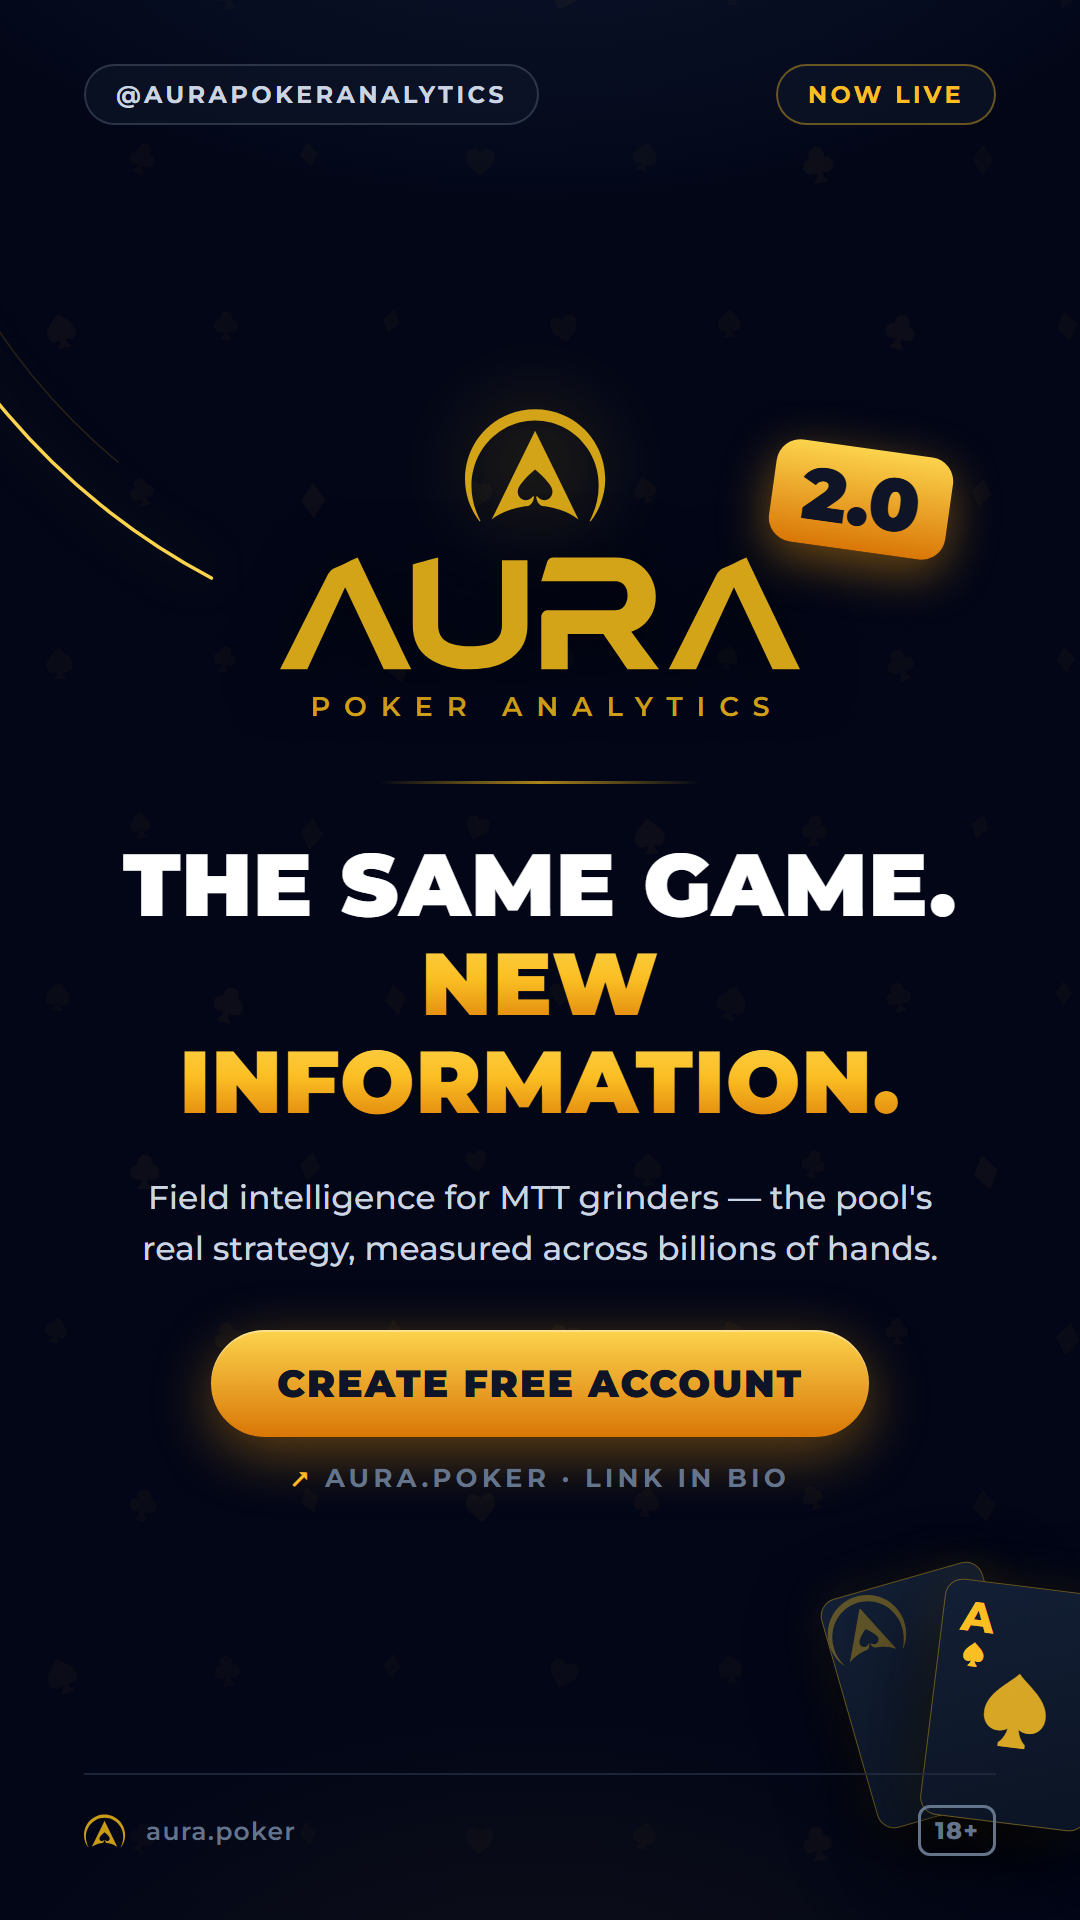
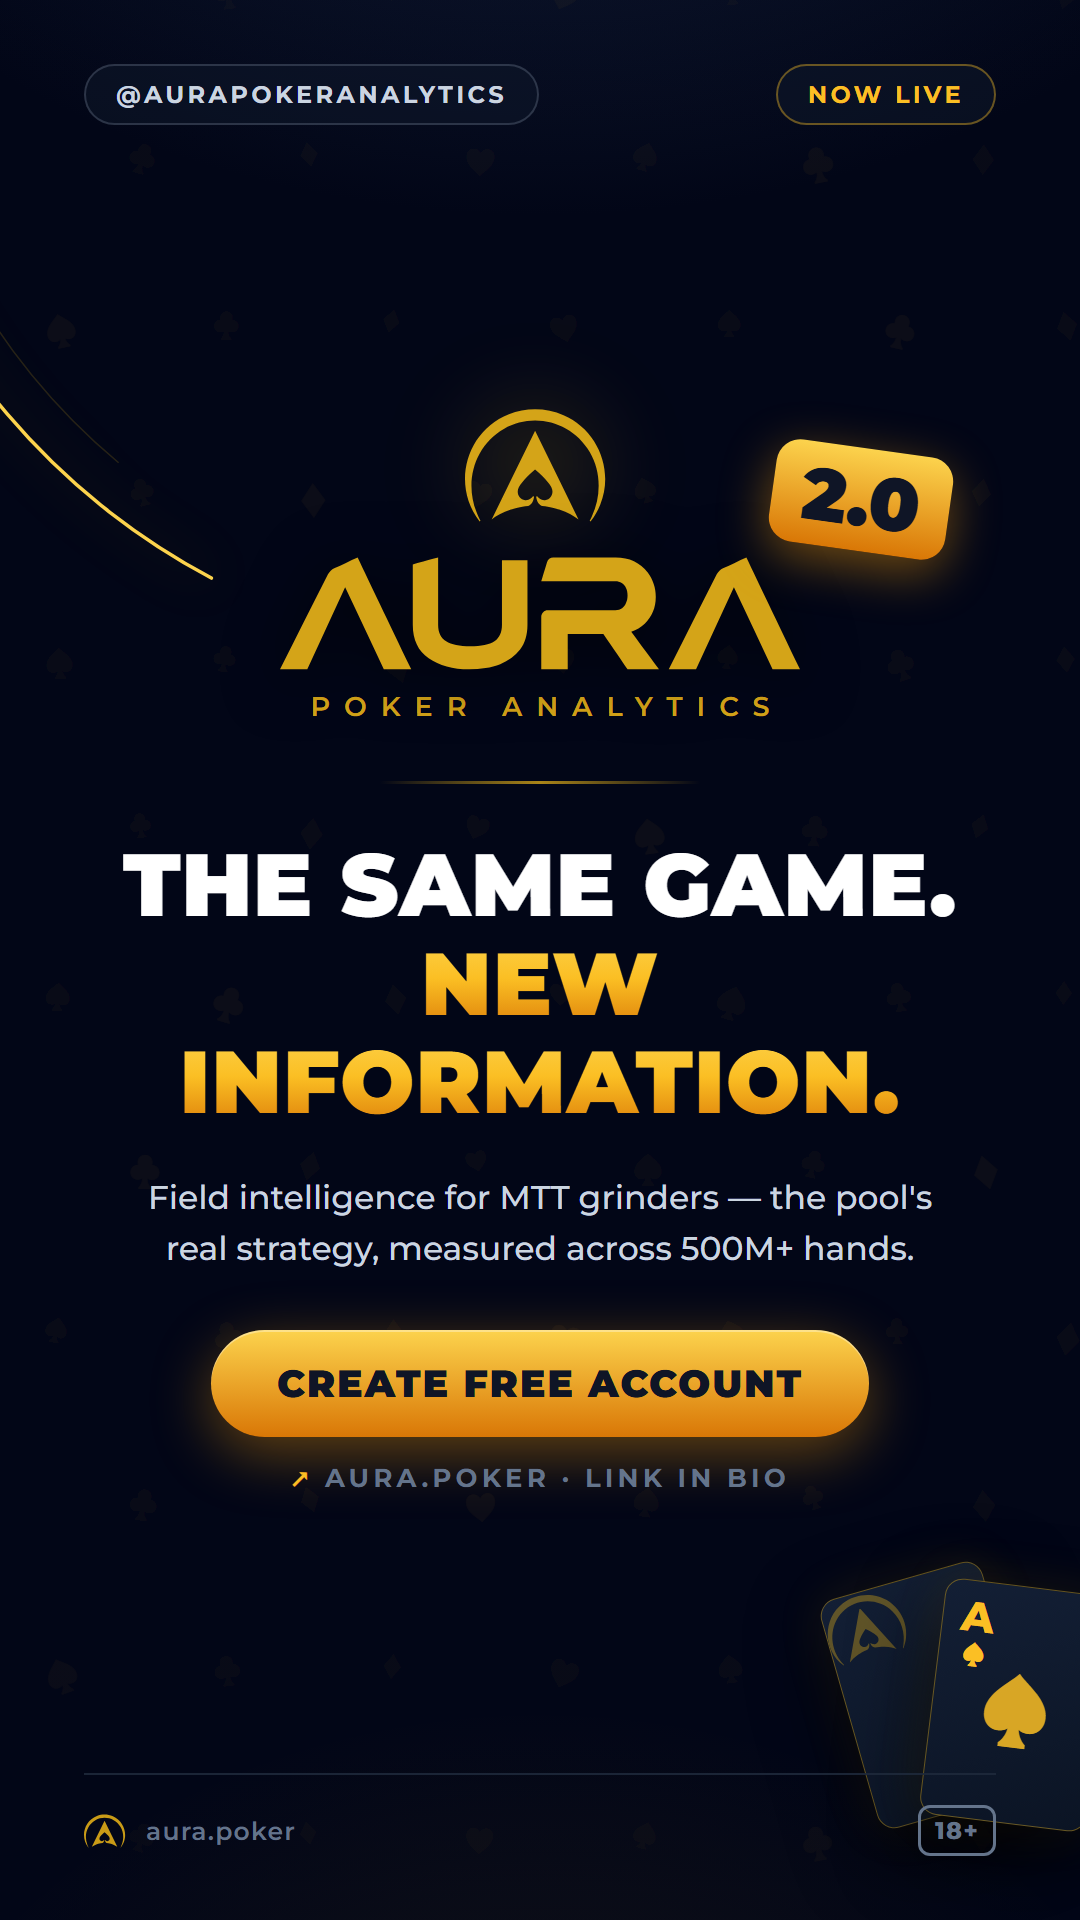
fix(marketing): correcoes do PO - numero-heroi 500M+, Stripe live, depoimentos fake
PO (09/07): Stripe esta LIVE (nao e TODO), depoimentos da landing NAO sao reais, numero-heroi = 500M+, 7 sites cobertos e verdade. Propagado: bilhoes/billions -> 500M+ na arte (deck.js + defaults dos templates), em todas as legendas do programa e nos docs de estrategia (plano + estrategia-criativa). Re-render do hero (feed+story), capas e CTAs afetados nas 3 pastas de output.

revisao-persuasao-vendas.md corrigida: 2.1 (7 sites e verdade, doc de contexto e que esta stale), 2.2 (numero resolvido 500M+, feito), 2.3 (depoimentos confirmados ficticios = item 1), 3 (Stripe live, caixa aberto - gargalo e topo/meio de funil, nao o checkout). Tabela de prioridades reordenada.

Changed region(s): [[0.1222, 0.625, 0.8556, 0.6562]]

diff --git a/instagram/templates/deck.js b/instagram/templates/deck.js
@@ -14,7 +14,7 @@ window.DECK = {
     topRight: "Now live",
     versionBadge: "2.0",
     headlineHtml: "The same game.<br><em>New information.</em>",
-    sub: "Field intelligence for MTT grinders — the pool's real strategy, measured across billions of hands.",
+    sub: "Field intelligence for MTT grinders — the pool's real strategy, measured across 500M+ hands.",
     cta: "Create free account",
     ctaSub: "aura.poker · link in bio",
     showCards: true,
@@ -25,7 +25,7 @@ window.DECK = {
   "meet-capa": {
     kicker: "Launch · Aura 2.0",
     hookHtml: "Meet <em>Aura 2.0</em>",
-    sub: "Not a tracker. Not a solver. The pool's real strategy — across billions of MTT hands.",
+    sub: "Not a tracker. Not a solver. The pool's real strategy — across 500M+ MTT hands.",
     swipe: "Swipe →",
     handle: "@aurapokeranalytics",
     ui: {
@@ -78,7 +78,7 @@ window.DECK = {
     bullets: [
       "Free plan, forever — no card required",
       "Hotspot + Preflop included",
-      "Billions of real MTT hands",
+      "500M+ real MTT hands",
     ],
     ctaLabel: "Create free account",
     ctaSub: "link in bio",
@@ -156,7 +156,7 @@ window.DECK = {
   },
   "w2-pre-cta": {
     headlineHtml: "See your pool. <em>Free.</em>",
-    bullets: ["Preflop grid in the free plan", "Billions of real MTT hands", "No card required"],
+    bullets: ["Preflop grid in the free plan", "500M+ real MTT hands", "No card required"],
     ctaLabel: "Create free account", ctaSub: "link in bio",
     tagline: "The same game. New information.", handle: "@aurapokeranalytics",
   },

diff --git a/instagram/templates/launch-hero.html b/instagram/templates/launch-hero.html
@@ -22,7 +22,7 @@ const CONFIG = {
   headlineHtml: "The same game.<br><em>New information.</em>",
 
   // linha de apoio (sentence case)
-  sub: "Field intelligence for MTT grinders — the pool's real strategy, measured across billions of hands.",
+  sub: "Field intelligence for MTT grinders — the pool's real strategy, measured across 500M+ hands.",
 
   // CTA de lançamento ("" esconde)
   cta: "Create free account",

diff --git a/instagram/templates/carrossel-capa.html b/instagram/templates/carrossel-capa.html
@@ -17,7 +17,7 @@ const CONFIG = {
   hookHtml: "The pool's <em>leaks</em>, ranked.",
 
   // linha de apoio ("" esconde)
-  sub: "Aura 2.0 scans billions of hands and hands you the spots worth attacking.",
+  sub: "Aura 2.0 scans 500M+ hands and hands you the spots worth attacking.",
 
   // pílula de swipe
   swipe: "Swipe →",

diff --git a/instagram/templates/carrossel-cta.html b/instagram/templates/carrossel-cta.html
@@ -17,7 +17,7 @@ const CONFIG = {
   bullets: [
     "Free plan, forever — no card required",
     "Hotspot + Preflop included",
-    "Billions of real MTT hands",
+    "500M+ real MTT hands",
   ],
 
   // botão CTA + linha abaixo

diff --git a/docs/00-strategy/revisao-persuasao-vendas.md b/docs/00-strategy/revisao-persuasao-vendas.md
@@ -10,15 +10,19 @@ documentado em `aura-context` e a landing em `aura-landing`. Fontes citadas por 
 
 ## 1. Sumário executivo — as 10 jogadas, por impacto
 
+> **Atualizado 09/07 com correções do PO:** Stripe está LIVE (não é `#TODO` — §3 corrigida); os
+> depoimentos da landing são fictícios (removê-los virou o item nº 1); número-herói fechado em **500M+**
+> e já propagado no lote (arte + legendas); "7 sites cobertos" é verdade e fica. Tabela reordenada.
+
 | # | Jogada | Impacto | Esforço | Quem |
 |---|---|---|---|---|
-| 1 | **Consertar integridade de claims** (7 sites / 500M vs bilhões / depoimentos) | 🔴 crítico — confiança é a base de toda persuasão | baixo | Fábrica + dev landing |
-| 2 | **Destravar o checkout** (UpgradeModal é `#TODO`) ou ponte concierge | 🔴 crítico — hoje não há como COMPRAR | médio | Dev (fora deste repo; cobrar) |
+| 1 | **Remover os 3 depoimentos falsos da landing** (PO confirmou não-reais) | 🔴 crítico — depoimento inventado desarma toda a persuasão | baixo | Dev/landing (fora deste repo) |
+| 2 | **Alinhar número-herói: 500M+ em tudo** (arte, legenda, bio, landing, ads) | alto — coerência de claim | baixo | Fábrica ✅ feito no lote |
 | 3 | **Reenquadrar o free: "Hotspot completo grátis"** como headline da oferta | alto | baixo | Fábrica + landing |
 | 4 | **Ancorar o anual: "menos que um buy-in de $22 por mês"** | alto | baixo | Landing/pricing copy |
-| 5 | **Win-back da base morta** (157 contas travadas + ~23 churned Woo) | alto | médio | Precisa de e-mail (gap) |
-| 6 | **Comment-to-DM funnel no IG** ("comenta FIELD") | alto | baixo | Rafael opera / ManyChat |
-| 7 | **Prova social real** (Discord, marcos de uso, case do leak report) | alto | médio | Fábrica + Rafael |
+| 5 | **Prova social real** (Discord, marcos de uso, case do leak report) — preencher o vazio dos depoimentos | alto | médio | Fábrica + Rafael |
+| 6 | **Win-back da base morta** (157 contas travadas + ~23 churned Woo) | alto | médio | Precisa de e-mail (gap) |
+| 7 | **Comment-to-DM funnel no IG** ("comenta FIELD") | alto | baixo | Rafael opera / ManyChat |
 | 8 | **Rebalancear copy IG: outcome > feature** + save/share prompts | médio | baixo | Fábrica (deck.js) |
 | 9 | **Nurture mínimo de 4 e-mails** (free→paid não pode ser 100% mudo) | médio | médio | Precisa de e-mail (gap) |
 | 10 | **Bio do IG + destaque fixado** como mini-landing | médio | trivial | Fábrica escreve, Rafael aplica |
@@ -30,44 +34,44 @@ documentado em `aura-context` e a landing em `aura-landing`. Fontes citadas por 
 Persuasão se apoia em credibilidade. Hoje há três rachaduras que um prospect atento (e o ICP é
 grinder analítico — o público MAIS atento que existe) encontra em 2 cliques:
 
-**2.1 "7 sites cobertos" no hero da landing** (`aura-landing/src/content/siteContent.ts:357`).
-O próprio doc de produto proíbe: o lake é ~89% família PokerStars e **GG/Party/888 = 0 mãos**
-(`aura-context/docs/01-product/landing-positioning.md:9`; parsers prontos ≠ dado carregado,
-ADR-010). Um usuário de GG assina, filtra, não acha o field dele, e vira detrator no Discord.
-→ **Trocar por claim verdadeiro e ainda forte:** "Milhões de torneios da maior sala do mundo"
-ou "+500M mãos auditadas · novas redes a cada trimestre" (cobertura como roadmap, não fato).
-Mesma correção vale pro anúncio do Discord se for reaproveitado em post.
+**2.1 "7 sites cobertos" — VERDADE (PO confirmou 09/07). Mantido.** Nota de reconciliação: o doc
+`aura-context/docs/01-product/landing-positioning.md:9` (auditoria 05/07) ainda diz "GG/Party/888 =
+0 mãos" — está **desatualizado** vs a realidade atual (a carga multi-site entrou). A thread de
+produto/contexto deve corrigir esse doc pra não gerar ressalva falsa em revisões futuras. Do lado do
+marketing, "7 sites cobertos" fica no ar — é bom argumento de escala e representatividade do field.
 
-**2.2 "Bilhões" (IG) vs "+500M" (landing).** As legendas do programa dizem "bilhões de mãos";
-o hero da landing diz "+500M mãos auditadas". O clique sai do post e cai numa página que
-contradiz o post — dissonância que custa conversão. → **Regra do número-herói: UM número,
-verificado no banco, usado EM TODO LUGAR** (bio, arte, legenda, landing, ads). Ação: puxar o
-total real na fonte (regra de ouro) e padronizar. Se o verificado for ~500M, "meio bilhão de
-mãos" é honesto e soa grande; "bilhões" sem lastro é passivo de confiança.
+**2.2 Número-herói padronizado: 500M+ (PO confirmou 09/07). ✅ Corrigido no lote.** As legendas do IG
+diziam "bilhões de mãos" — overclaim (500M ≠ bilhão) e incoerente com o hero da landing ("+500M mãos
+auditadas"). Já ajustei a arte (deck.js + defaults dos templates) e todas as legendas do programa para
+**500M+**. Regra de ouro: UM número, verificado, em TODO lugar (bio, arte, legenda, landing, ads).
+Pendência: `docs/02-paid/launch-hero-trafego.md:196` cita a sub antiga ("billions") — a thread de mídia
+paga deve sincronizar pra 500M+.
 
-**2.3 Depoimentos da landing** (Lucas M., Ana P., "Rafael C. — Head Coach de Stable").
-⚠ Se não forem pessoas reais com autorização, é o risco nº 1 da página: depoimento inventado é
-violação de CDC/puffery e, pior, o nicho é pequeno — alguém vai perguntar "quem é Lucas M.?".
-→ **Confirmar autenticidade com o PO.** Se não forem reais: remover já e substituir por prova
-real (§6). Uma landing sem depoimento é neutra; uma landing com depoimento falso desarma tudo.
+**2.3 Depoimentos da landing são FICTÍCIOS (PO confirmou 09/07 — não são reais). Item nº 1.** Lucas M.,
+Ana P., "Rafael C." em `aura-landing/src/content/siteContent.ts` (seção de depoimentos) precisam ser
+**removidos com urgência**: depoimento inventado é violação de CDC/puffery e, num nicho pequeno, alguém
+pergunta "quem é Lucas M.?" e a credibilidade evapora. → **Ação (thread landing/dev — fora deste repo):**
+remover os 3 já; deixar a seção vazia até existir prova real (§6). Landing sem depoimento é neutra; com
+depoimento falso, desarma toda a persuasão.
 
 **2.4 Higiene interna:** o plano cita "710 users"; a reconciliação de billing de 09/07 mostra
 **229 contas** em `AuraBusiness.tbl_user` e **0 assinantes Stripe reais** (~8 pagantes legados
 Woo). Nenhum desses números vai pra público, mas as decisões de funil (tamanho de retargeting,
 metas) devem usar os reais.
 
-## 3. O funil tem um buraco no caixa
+## 3. O caixa está aberto (Stripe LIVE — PO confirmou 09/07)
 
-- O fluxo de upgrade in-app termina num **placeholder `#TODO-checkout`**
-  (`aura-landing/.../UpgradeModal.tsx`, spec de gating Inc 5). Assinantes Stripe reais: **0**.
-- Tradução de vendas: todo o marketing empurra tráfego para uma compra **que não pode ser
-  concluída self-serve**. Cada dia de conteúdo antes disso constrói audiência, não receita.
-- **Ação imediata (ponte, custo zero):** enquanto o checkout não liga, o botão de upgrade e a
-  seção de planos apontam para um canal concierge ("Assine pelo Discord/WhatsApp — resposta em
-  minutos"). Vender manualmente 10 assinaturas > mostrar um modal quebrado. Bônus: as conversas
-  de venda manuais são pesquisa de objeções de graça.
-- **Cobrar do dev** a ligação Stripe (a camada `getTier()` já existe como seam — spec
-  trial-gating Inc 4/5). É o item de maior ROI de todo o ecossistema de marketing.
+**Correção da v1 desta revisão:** disse que o checkout era um `#TODO` e que havia 0 assinantes — **errado.**
+As fontes que enganaram a análise foram um comentário `#TODO-checkout` no `UpgradeModal.tsx` (código,
+provável resíduo) e o `aura-context/.../2026-07-09-billing-state-reconciliation.md` (reportou 0 assinantes
+Stripe nativos num recorte do dia). Na prática o **Stripe está ligado e processando** — o funil converte
+self-serve.
+
+**Implicação de vendas (o oposto da v1):** o gargalo NÃO é o caixa, é o **topo e o meio** — tráfego
+qualificado (§5/§8), prova que dá confiança pra comprar (§5), e o empurrão free→paid (§4, §6/§7). Com o
+checkout funcionando, cada ponto de conversão que a gente arruma vira **receita de verdade**, não audiência
+parada — o que torna as jogadas de §4–§10 diretamente monetizáveis, não preparatórias. As duas docs-fonte
+acima (código + reconciliação) devem ser limpas pelas threads donas pra não re-enganar auditorias futuras.
 
 ## 4. Oferta: o free está mal contado e o anual está mal ancorado
 

diff --git a/docs/00-strategy/estrategia-criativa-launch-2.0.md b/docs/00-strategy/estrategia-criativa-launch-2.0.md
@@ -17,12 +17,12 @@ prints/vídeos da ferramenta, apelo comercial direto. O produto é a estrela; o 
 ## 2. Mensagem-mestra do launch
 
 > **Solvers te mostram o equilíbrio. A Aura te mostra o adversário.**
-> Aura 2.0: a estratégia real do field de MTT, medida em bilhões de mãos — filtrada por posição,
+> Aura 2.0: a estratégia real do field de MTT, medida em 500M+ mãos — filtrada por posição,
 > stack, buy-in e estágio do torneio. Conta grátis, sem cartão.
 
 Hierarquia de argumentos (usar nessa ordem):
 1. **Categoria nova** — não é tracker, não é solver: é inteligência do FIELD.
-2. **Escala** — bilhões de mãos de MTT real (nunca citar sites não cobertos; sem prometer GG).
+2. **Escala** — 500M+ mãos de MTT real, 7 sites cobertos (número-herói verificado; ver revisão-persuasão-vendas §2).
 3. **Acionável** — filtros que respondem perguntas de estudo reais em cliques.
 4. **Grátis** — plano free permanente (Hotspot vitrine + preflop limitado), upgrade quando bater nas travas.
 

diff --git a/docs/00-strategy/plano-marketing-launch-2.0.md b/docs/00-strategy/plano-marketing-launch-2.0.md
@@ -8,7 +8,7 @@
 ## A. Estratégico (horizonte 90 dias)
 
 **Posicionamento:** *Solvers te mostram o equilíbrio. A Aura te mostra o adversário.*
-Ferramenta do jogador explorador — dados reais de bilhões de mãos do pool, não teoria.
+Ferramenta do jogador explorador — dados reais de 500M+ mãos do pool, não teoria.
 Tagline de launch (herdada da apresentação de marca 2024): **"O MESMO JOGO — NOVAS INFORMAÇÕES."**
 
 **Objetivo do trimestre:** funil mensurável IG → landing → **plano free** → assinatura.
